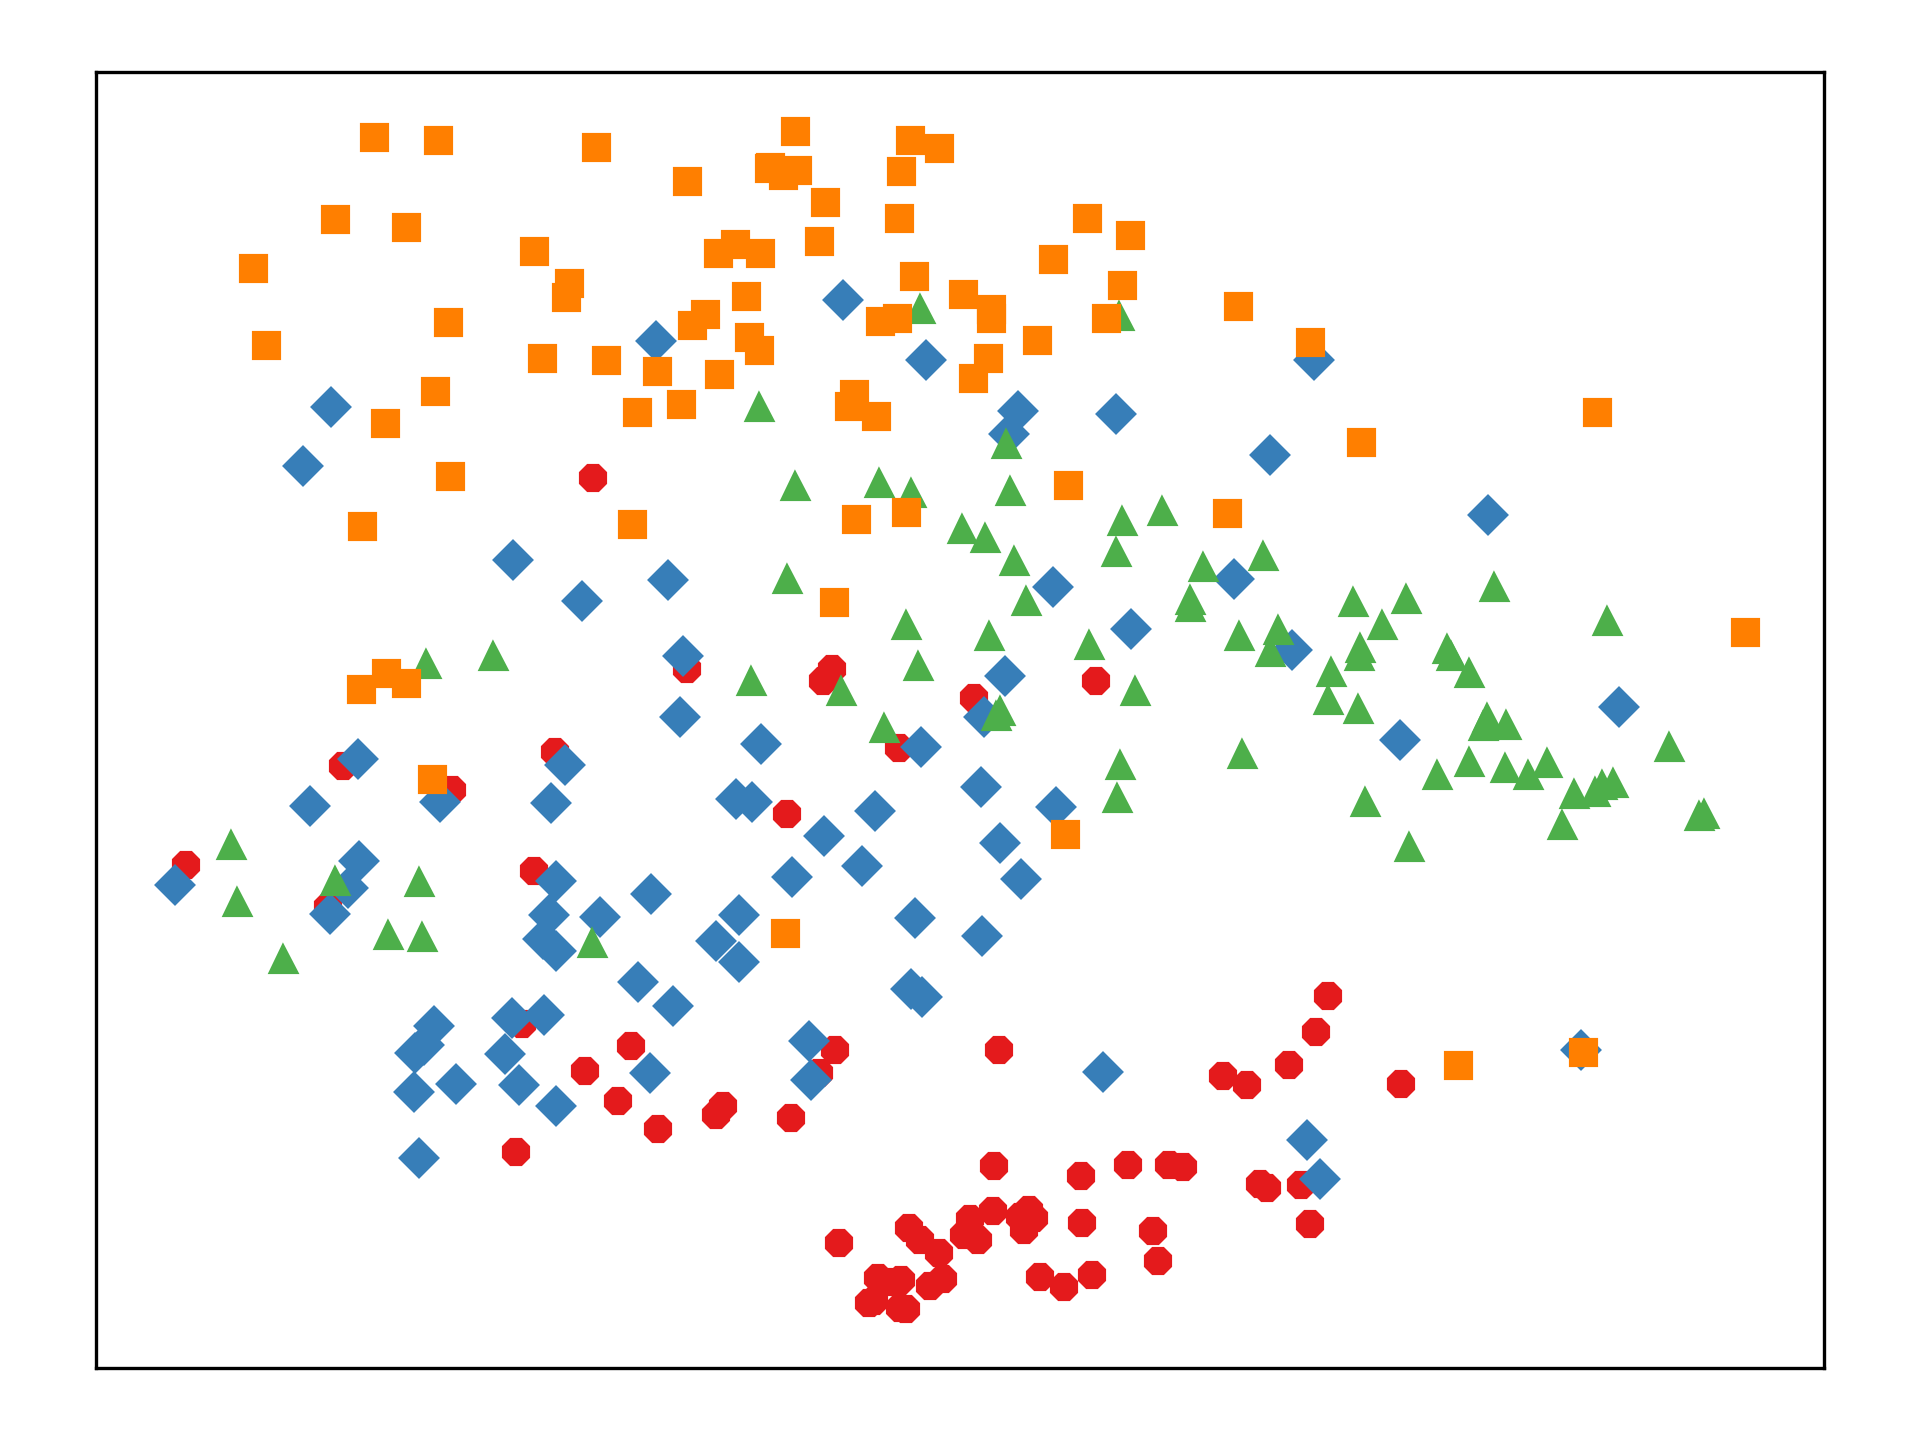
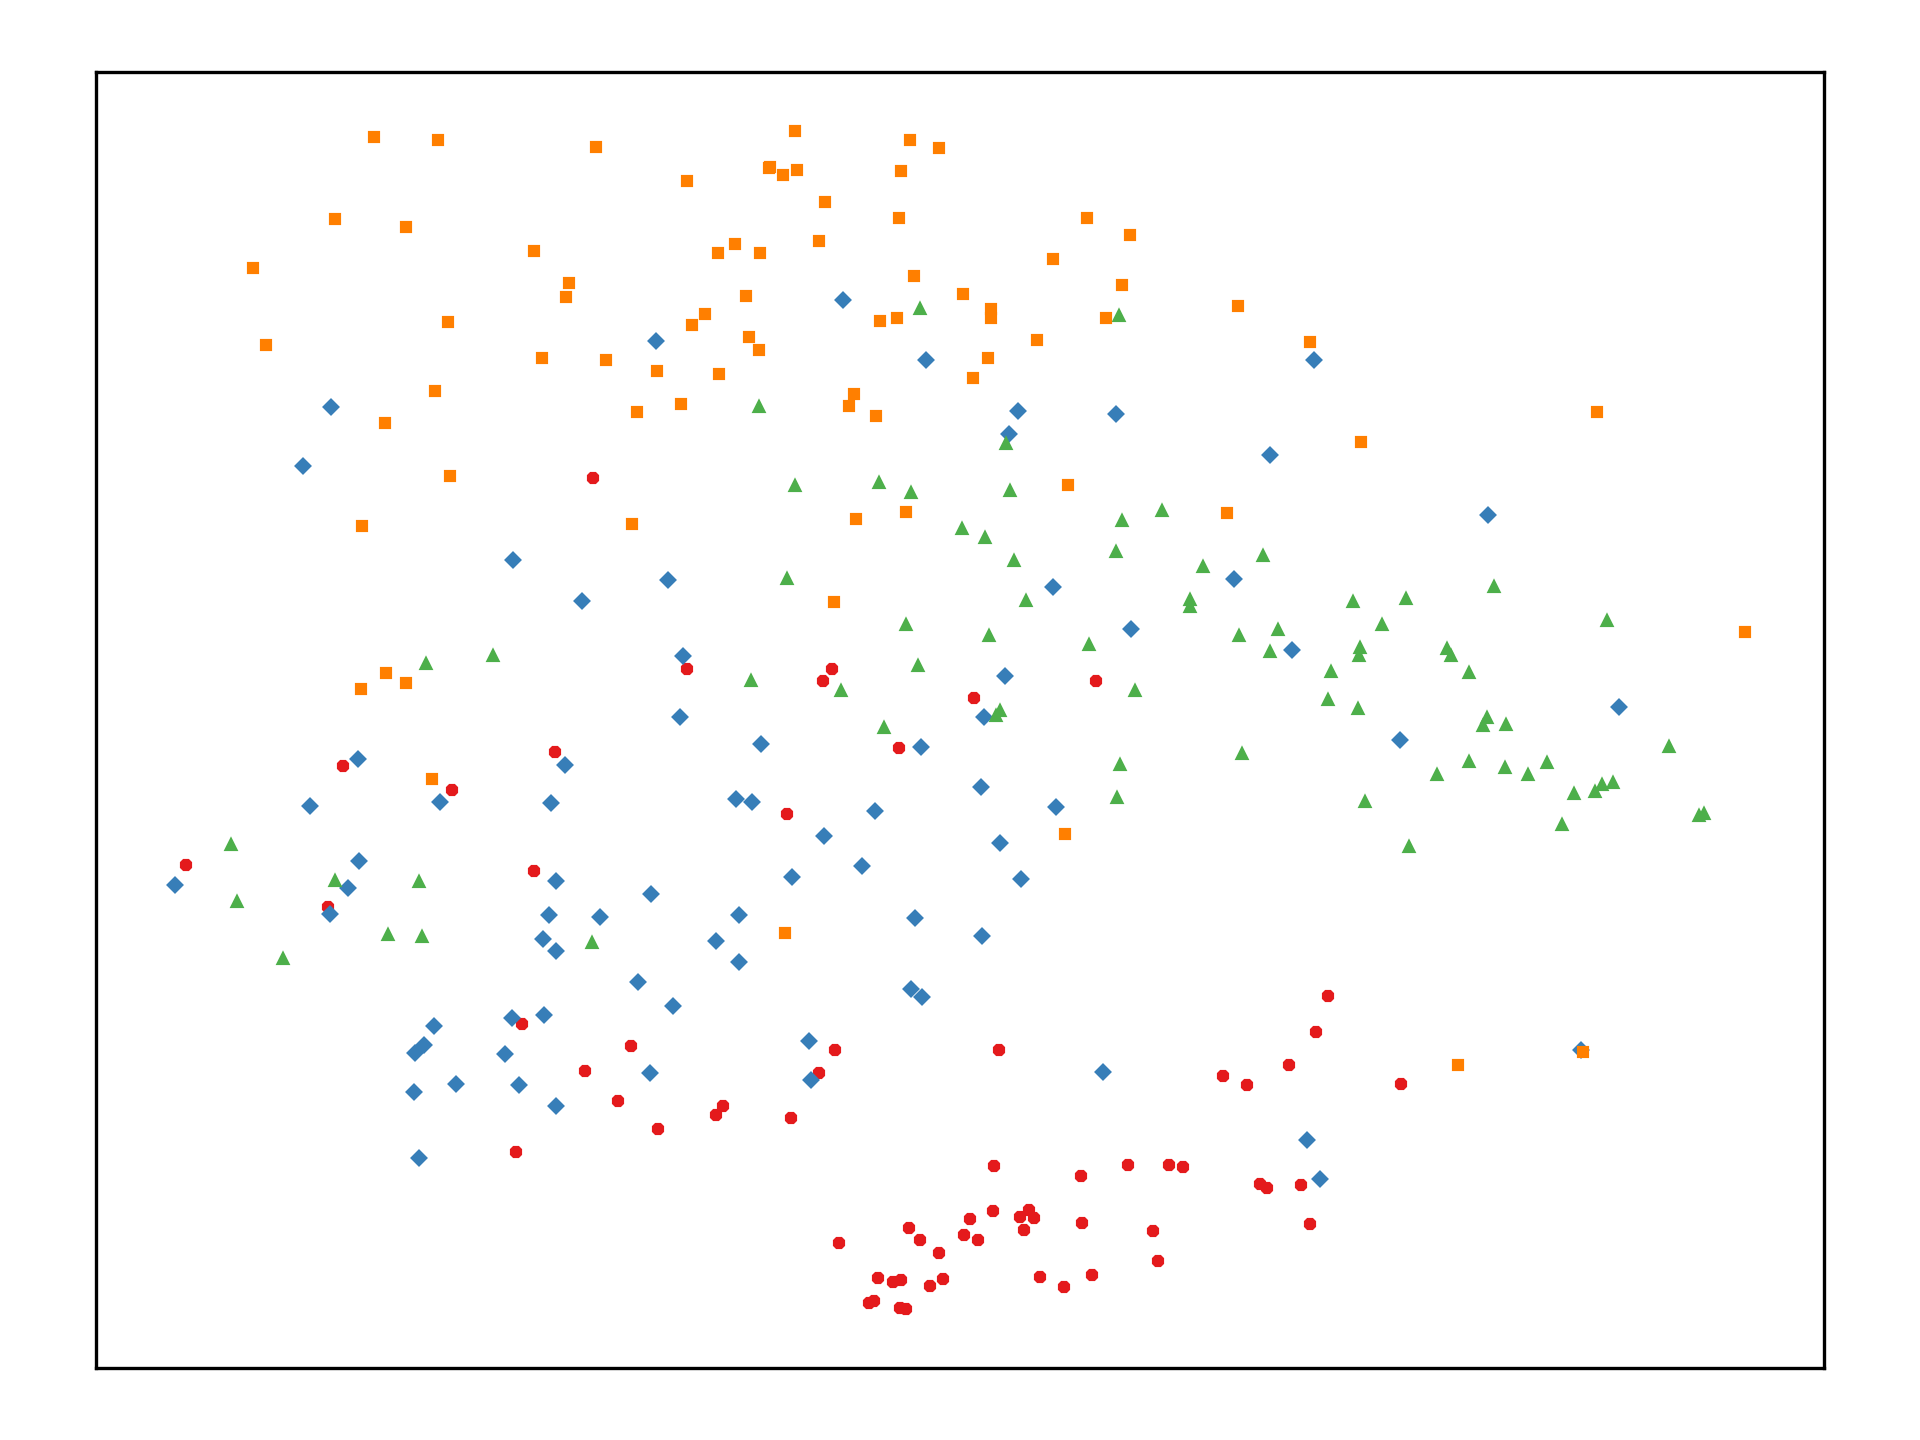
smaller marker sizes

diff --git a/post_processing/01_plot_Q_vs_Q.py b/post_processing/01_plot_Q_vs_Q.py
@@ -39,7 +39,7 @@ for l in range(N):
   plt.axhline(y=l+1, ls='--', c='k', lw=0.5)
   for y, Q_name in enumerate(Q_names):
     Q = loadtxt(Q_path.format(Q_name))
-    ax.plot(Q[:,l], (l+1)*ones(Q.shape[0]), marker[y], c=c[y], ms=6, alpha=0.5)
+    ax.plot(Q[:,l], (l+1)*ones(Q.shape[0]), marker[y], c=c[y], ms=2, alpha=0.5)
 #    ax.plot(Q0[y,l], (l+1), marker[y], c='k', ms=6)
 
 # Add details.
@@ -62,7 +62,7 @@ ax  = fig.add_axes([0.12,0.15,0.8,0.8])
 # Plot.
 for y, Q_name in enumerate(Q_names):
   Q = loadtxt(Q_path.format(Q_name))
-  ax.plot(Q[:,3], Q[:,5], marker[y], c=c[y], ms=7, alpha=0.5)
+  ax.plot(Q[:,3], Q[:,5], marker[y], c=c[y], ms=2, alpha=0.5)
 #  ax.plot(Q0[y,3], Q0[y,5], marker[y], c='k', ms=7)
 
 # Add details.
@@ -83,7 +83,7 @@ for li in range(N):
     ax  = fig.add_axes([dL0_x+li*L, dL0_y+lj*L, dL, dL])
     for y, Q_name in enumerate(Q_names):
       Q = loadtxt(Q_path.format(Q_name))
-      ax.plot(Q[:,li], Q[:,lj], marker[y], c=c[y], ms=6)
+      ax.plot(Q[:,li], Q[:,lj], marker[y], c=c[y], ms=2)
 #      ax.plot(Q0[y,li], Q0[y,lj], marker[y], c='k', ms=6)
     ax.set_xticklabels([])
     ax.set_yticklabels([])

diff --git a/post_processing/02_plot_tsne_and_pca.py b/post_processing/02_plot_tsne_and_pca.py
@@ -24,7 +24,7 @@ plt.axvline(ls='--', c='k', lw=0.5)
 
 # Plot.
 for i in range(4):
-  ax.plot(X_pca[y==i,0], X_pca[y==i,1], marker[i], c=c[i], ms=6, alpha=0.5)
+  ax.plot(X_pca[y==i,0], X_pca[y==i,1], marker[i], c=c[i], ms=2, alpha=0.5)
   #ax.plot(X0_pca[i,0], X0_pca[i,1], marker[i], c='k', ms=6)
  
 # Add details and save figure.
@@ -43,7 +43,7 @@ for perplexity in [10,20,50,100]:
   fig = plt.figure()
   ax  = fig.add_axes([0.05, 0.05, 0.90, 0.90])
   for i in range(4):
-    ax.plot(X_tsne[y==i,0], X_tsne[y==i,1], marker[i], c=c[i], ms=6)
+    ax.plot(X_tsne[y==i,0], X_tsne[y==i,1], marker[i], c=c[i], ms=2)
   ax.set_xticks([])
   ax.set_yticks([])
   fig.savefig("figures/visualization/fig_tSNE_%d.png" % perplexity, dpi=300)

diff --git a/post_processing/04_plot_test.py b/post_processing/04_plot_test.py
@@ -21,7 +21,7 @@ ax  = fig.add_axes([0.14, 0.12, 0.85, 0.85])
 # Plot
 y, dr, d = loadtxt('../data/test/distortion.dat', unpack=True)
 for i in range(len(marker)):
-  ax.plot(d[y==i], dr[y==i], marker[i], c=c[i], alpha=0.4)
+  ax.plot(d[y==i], dr[y==i], marker[i], c=c[i], alpha=0.4, ms=2)
    
 # Add details and save figure.
 ax.set_xlim(0,13)
